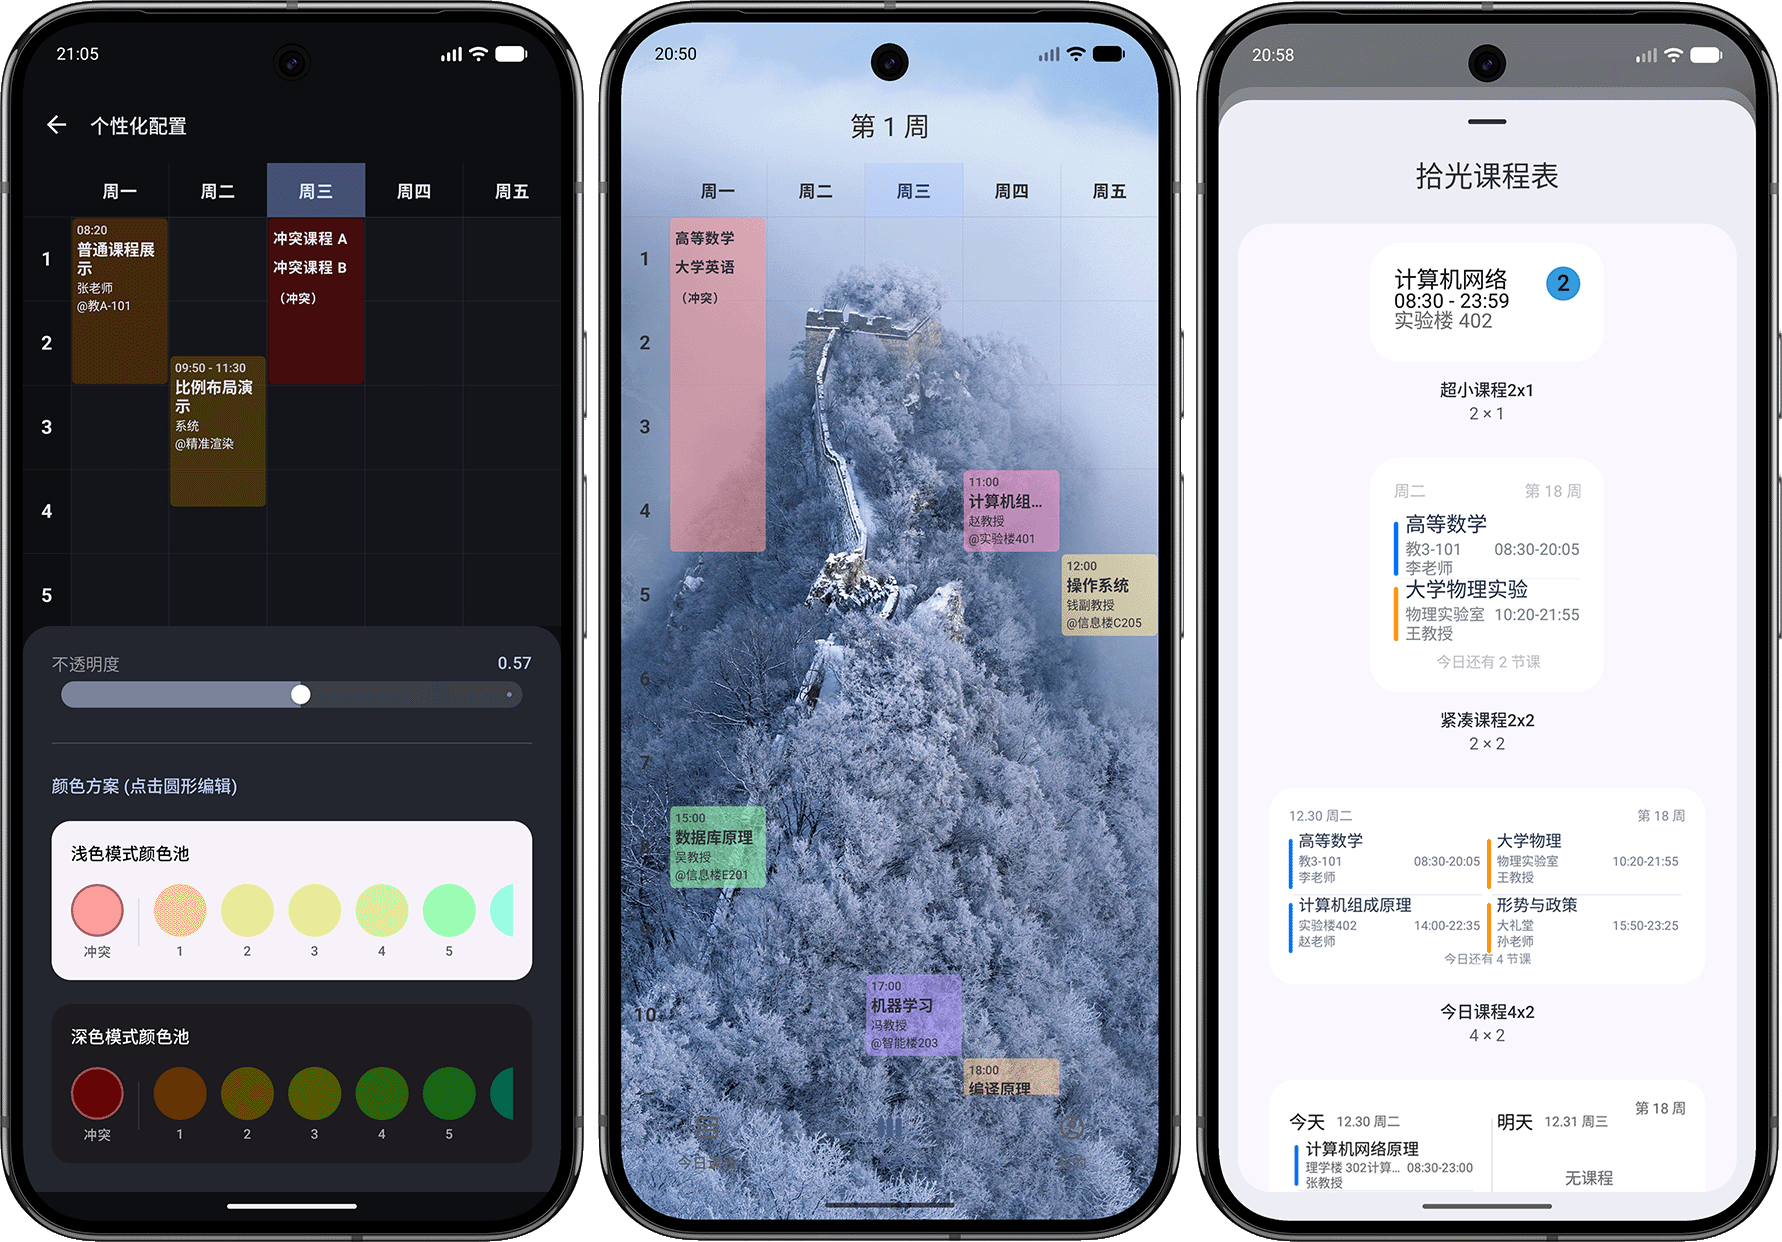
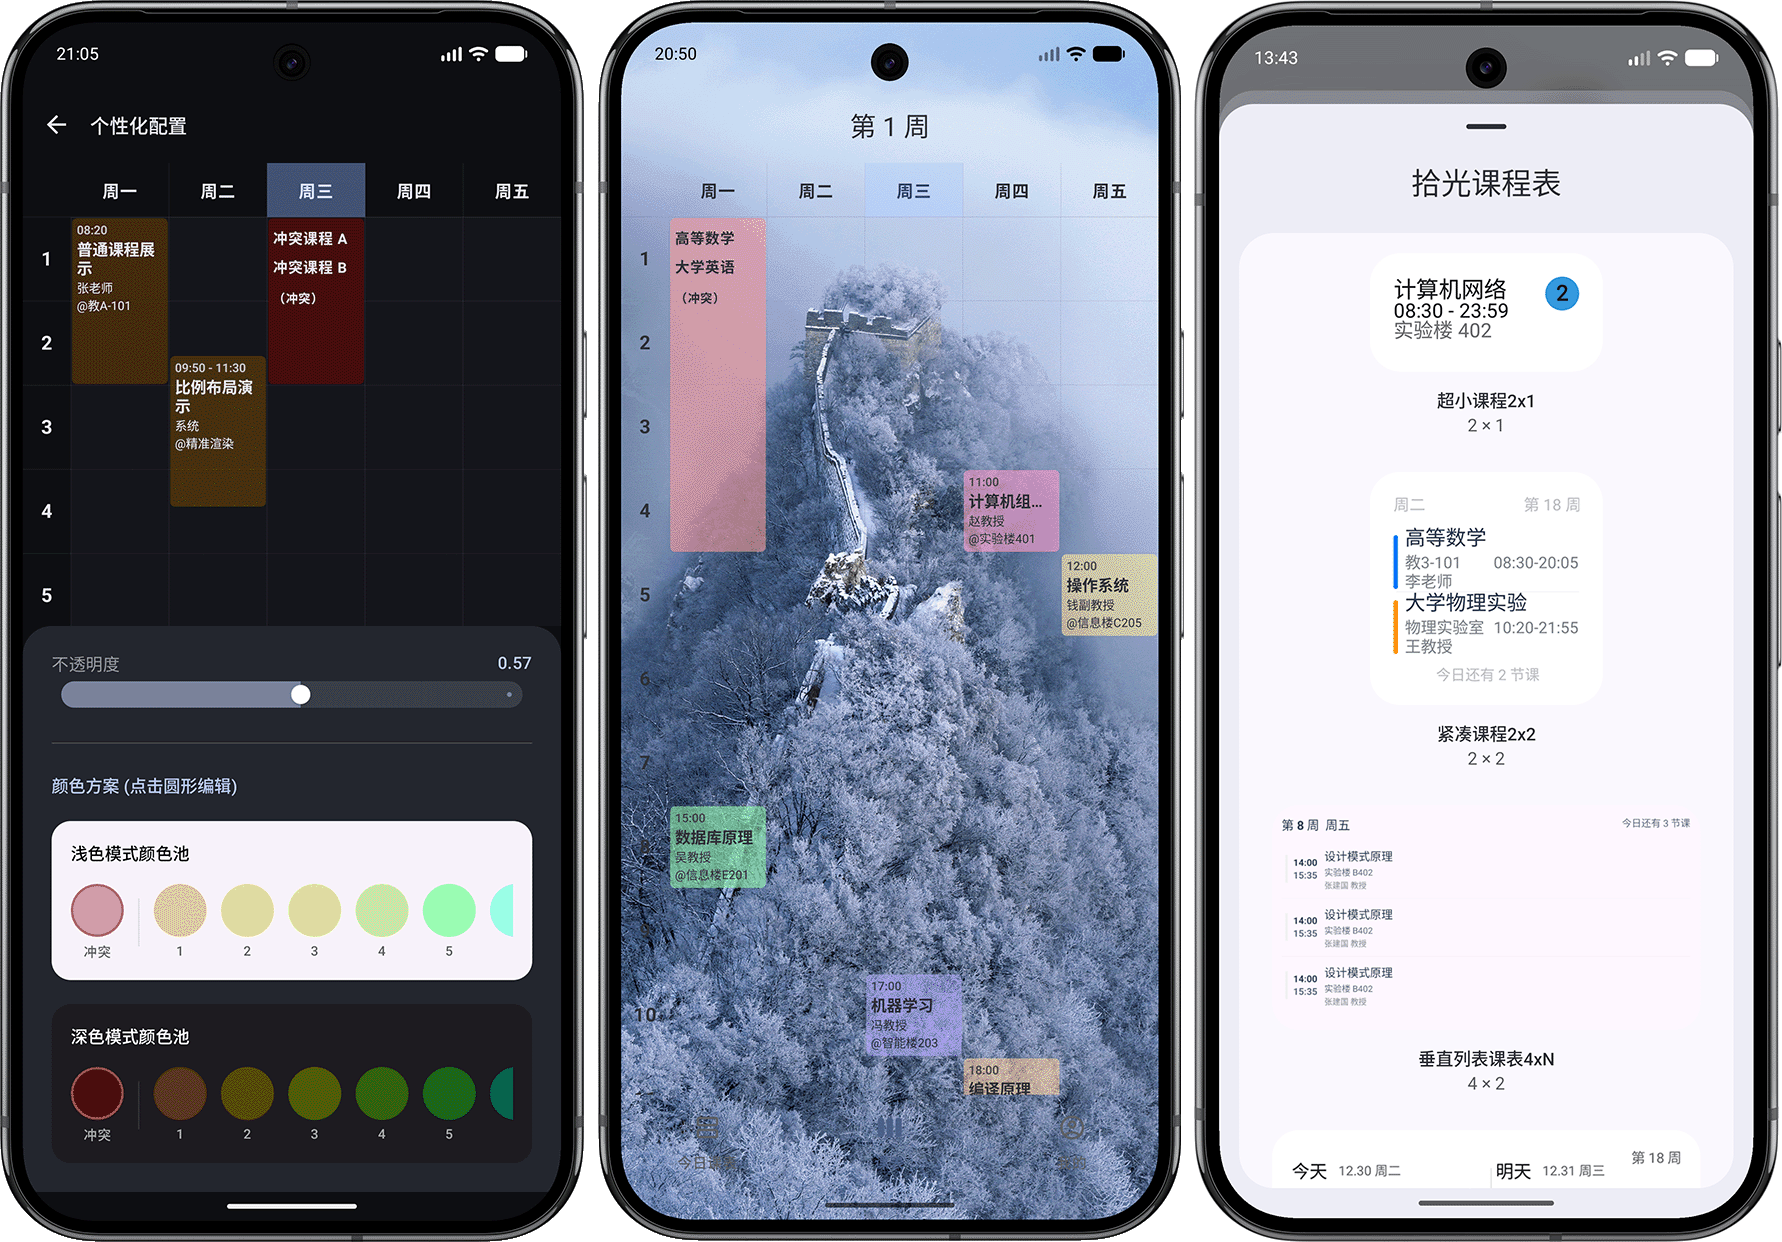
chore: 更新README文件，版本号升级至1.2.1

diff --git a/README.md b/README.md
@@ -2,6 +2,7 @@
 #### 与我们交流和讨论 ![](https://img.shields.io/badge/QQ_频道-pd68794181-blue)  
 
 本仓库为拾光课程表（shiguangschedule）项目的主仓库，包含软件的全部源代码及相关资源。项目采用开源模式，欢迎社区开发者参与贡献和适配。  
+
 ## 预览图
 
 ![预览图1](/picture/Preview_1.png "预览图")
@@ -30,7 +31,7 @@
   
 #### 小组件  
 - 多种功能小组件任其选择  
-  > [全部小组件预览图](/picture/all_widget.jpg)。
+  > [全部小组件预览图](/picture/all_widget.png)。
 - 小组件支持明日预告
   > 超小小组件不支持明日预告,因为只有2x1的尺寸,设计上是用来展示最近一节课的消息  
 
@@ -90,8 +91,9 @@
 - 项目主页：[https://github.com/XingHeYuZhuan/shiguangschedule](https://github.com/XingHeYuZhuan/shiguangschedule)
 - 适配脚本仓库：[https://github.com/XingHeYuZhuan/shiguang_warehouse](https://github.com/XingHeYuZhuan/shiguang_warehouse)
 - 查看如何适配,Wiki：[https://github.com/XingHeYuZhuan/shiguangschedule/wiki](https://github.com/XingHeYuZhuan/shiguangschedule/wiki)
-- 浏览器测试插件:[https://github.com/XingHeYuZhuan/shiguang_Tester](https://github.com/XingHeYuZhuan/shiguang_Tester)
+- 浏览器测试插件:[https://github.com/XingHeYuZhuan/shiguang_Tester](https://github.com/XingHeYuZhuan/shiguang_Tester)  
 
+- ###### 由[@Jursin](https://github.com/Jursin)主导并维护的网站:[https://sgschedule.jursin.top/](https://sgschedule.jursin.top/)  
 ---
 
 如有问题或建议，欢迎提交 Issue 或 PR。
